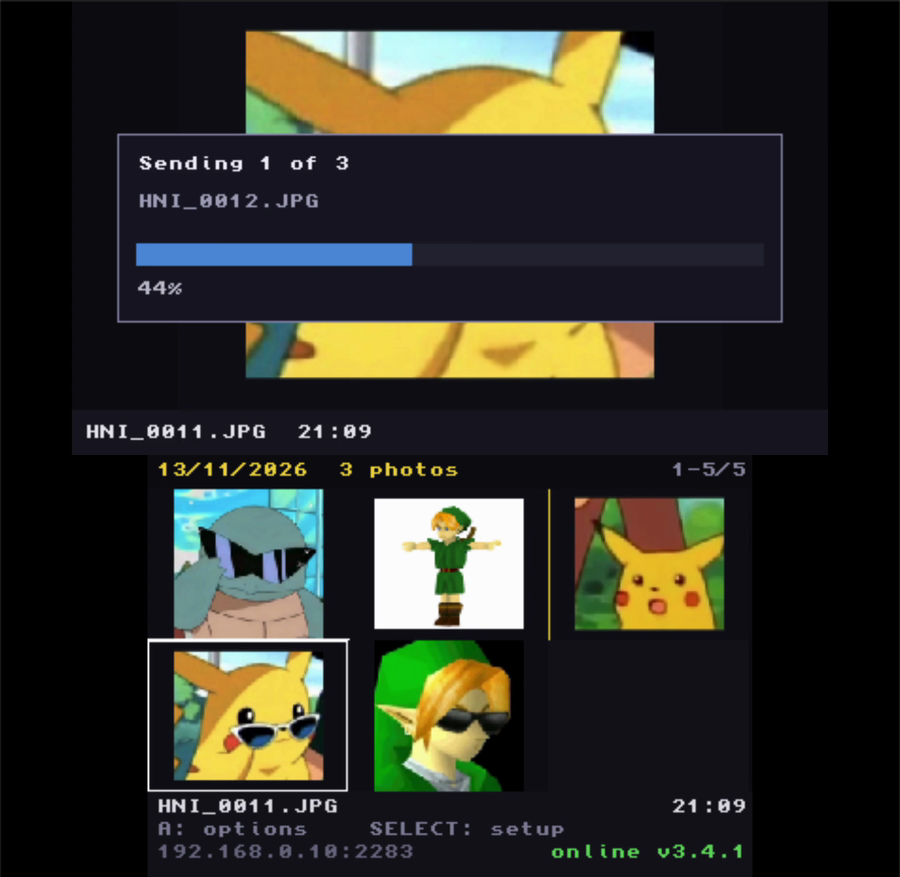
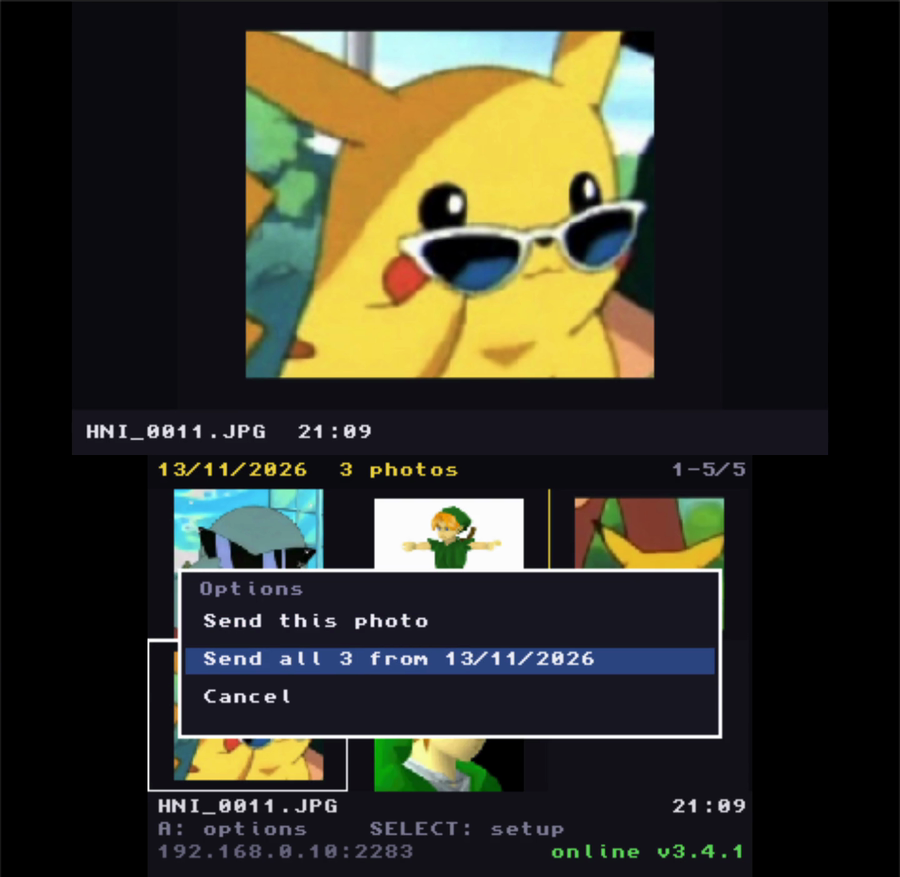
docs: README focado em quem so quer usar
- fora a secao 'why not airdrop': o projeto e' sobre Immich
- 'releasing', 'tests' e detalhes de build vao para CONTRIBUTING.md
- print do menu agora mostra o menu de acoes (antes pegava um envio)
- pagina de configuracao em ingles no README EN e em portugues no PT
- prints da galeria e do menu em PT para o README.pt-BR

Changed region(s): [[0.1244, 0.1539, 0.8711, 0.3694], [0.1867, 0.6465, 0.8089, 0.862]]

diff --git a/README.pt-BR.md b/README.pt-BR.md
@@ -19,18 +19,7 @@ Manda as fotos do seu Nintendo 3DS direto para o seu servidor [Immich](https://i
 
 | Galeria | Menu de ações |
 |---|---|
-| ![Galeria](docs/screenshot-gallery.png) | ![Menu](docs/screenshot-menu.png) |
-
-## Por que não AirDrop
-
-AirDrop não é possível no 3DS, e não é questão de criptografia: a descoberta roda sobre **AWDL**, um
-protocolo de rádio que exige monitor mode e injeção de frames — coisas que o firmware fechado do 3DS
-não expõe, e o menu do iPhone só lista quem fala AWDL. Reimplementações abertas como o
-[OpenDrop](https://github.com/seemoo-lab/opendrop) só funcionam em placas Wi-Fi com monitor mode
-ativo.
-
-O caminho que funciona é o Immich: o 3DS sobe as fotos e o iPhone as vê no app do Immich. O outro
-sentido vem de graça.
+| ![Galeria](docs/screenshot-gallery-pt.png) | ![Menu](docs/screenshot-menu-pt.png) |
 
 ## Requisitos
 
@@ -43,15 +32,13 @@ sentido vem de graça.
 Baixe `immich-3ds.cia` na página de [releases](../../releases), copie para o cartão SD
 (por exemplo `sdmc:/cias/`) e instale com o **FBI**. Ele aparece no menu inicial.
 
-Alternativamente, compile e use o `.3dsx` pelo Homebrew Launcher.
-
 ## Configurar
 
 ### Primeira vez: pelo celular ou PC
 
 Sem configuração, o app sobe um pequeno servidor web e mostra o endereço na tela de cima:
 
-![Página de configuração](docs/screenshot-web.png)
+![Página de configuração](docs/screenshot-web-pt.png)
 
 Abra esse endereço, preencha servidor, API key e fuso, e toque em **Enviar pro 3DS**. O app salva em
 `sdmc:/immich-3ds/.env`, testa a conexão e volta para a galeria.
@@ -97,61 +84,19 @@ configuração).
 - TLS 1.2 é o teto do mbedTLS embarcado — servidor que só aceita TLS 1.3 não conecta
 - A API key fica em texto plano no cartão. Use uma key dedicada, para revogar só ela
 
-## Compilar
-
-```sh
-./build.sh          # gera .3dsx e .cia via Docker (não precisa de devkitPro)
-```
-
-Com devkitPro instalado nativamente, `make` usa `$DEVKITARM`; a etapa do `.cia` precisa do
-[makerom](https://github.com/3DSGuy/Project_CTR).
-
-Opcional: copie `.env.example` para `.env` para embutir servidor e key no binário em tempo de build
-(útil para distribuir uma build já configurada — mas aí o `.cia` carrega a sua key).
-
-## Regerar as imagens do README
-
-O GIF foi gravado com uma flag que percorre a interface sozinha e finge o envio (não precisa de
-servidor):
-
-```sh
-make CFLAGS_EXTRA=-DDEMO
-```
-
-## Publicar uma release
-
-Empurre uma tag e o CI faz o resto: roda os testes, compila dentro do container do devkitPro, empacota
-o `.cia` e publica os dois binários numa release do GitHub.
-
-```sh
-git tag v1.0.0 && git push --tags
-```
-
-Todo push e pull request também gera os artefatos (sem publicar), então build quebrada aparece como
-check vermelho.
-
-## Testes
-
-```sh
-./tests/run.sh
-```
-
-Cobre o leitor de data EXIF e o parser urlencoded da página de configuração. Os dois compilam no host,
-sem emulador.
-
 ## Créditos e notas legais
 
 - Feito com [devkitPro](https://devkitpro.org) / libctru, [curl](https://curl.se) +
-  [mbedTLS](https://www.trustedfirmware.org/projects/mbed-tls/), [libjpeg-turbo](https://libjpeg-turbo.org)
-  e [makerom](https://github.com/3DSGuy/Project_CTR).
+  [mbedTLS](https://www.trustedfirmware.org/projects/mbed-tls/) e
+  [libjpeg-turbo](https://libjpeg-turbo.org).
 - O nome e a logo da Immich pertencem ao projeto [Immich](https://immich.app). Este app **não é
   oficial** nem afiliado; a logo está aqui só para identificar o serviço que você conecta.
 - As imagens de exemplo em `docs/` são memes de fã usados **apenas como dado de teste**. Personagens e
   artes são marcas da **Nintendo**; este projeto não é afiliado, endossado ou patrocinado pela Nintendo.
   Se você fizer um fork, troque essas imagens por algo seu.
 
-## Licença
+## Licença e contribuição
 
-MIT — veja [LICENSE](LICENSE).
+MIT — veja [LICENSE](LICENSE). Compilar do código, testes e processo de release: [CONTRIBUTING.md](CONTRIBUTING.md).
 
 Por [arthuregood](https://github.com/arthuregood).

diff --git a/README.md b/README.md
@@ -21,17 +21,6 @@ Send the photos from your Nintendo 3DS straight to your [Immich](https://immich.
 |---|---|
 | ![Gallery](docs/screenshot-gallery.png) | ![Menu](docs/screenshot-menu.png) |
 
-## Why not AirDrop
-
-AirDrop is not possible on a 3DS, and it is not about encryption: discovery runs over **AWDL**, a
-radio protocol that needs monitor mode and raw frame injection — things the 3DS closed firmware
-does not expose, and the iPhone's share sheet only lists peers that speak AWDL. Open
-reimplementations like [OpenDrop](https://github.com/seemoo-lab/opendrop) only work on Wi-Fi cards
-with active monitor mode.
-
-Immich is the path that does work: the 3DS uploads, and the iPhone sees it in the Immich app. The
-other direction comes for free.
-
 ## Requirements
 
 - 3DS/2DS with [Luma3DS](https://github.com/LumaTeam/Luma3DS) and FBI
@@ -42,8 +31,6 @@ other direction comes for free.
 
 Grab `immich-3ds.cia` from the [releases](../../releases) page, copy it to your SD card
 (for example `sdmc:/cias/`) and install it with **FBI**. It shows up in the Home Menu.
-
-Alternatively, build from source and use the `.3dsx` through the Homebrew Launcher.
 
 ## Setup
 
@@ -97,61 +84,19 @@ saving the settings).
 - TLS 1.2 is the ceiling of the bundled mbedTLS — a server that only accepts TLS 1.3 will not connect
 - The API key sits in plain text on the SD card. Use a dedicated key so you can revoke it alone
 
-## Building
-
-```sh
-./build.sh          # builds .3dsx and .cia with Docker (no devkitPro needed)
-```
-
-With devkitPro installed natively, `make` uses `$DEVKITARM`; the `.cia` step needs
-[makerom](https://github.com/3DSGuy/Project_CTR).
-
-Optional: copy `.env.example` to `.env` to bake the server and key into the binary at build time
-(handy for distributing a pre-configured build — but then the `.cia` contains your key).
-
-## Regenerating the demo assets
-
-The GIF in this README was recorded with a build flag that drives the UI by itself and fakes the
-upload (no server needed):
-
-```sh
-make CFLAGS_EXTRA=-DDEMO
-```
-
-## Releasing
-
-Push a tag and CI does the rest: it runs the tests, compiles inside the devkitPro container,
-packages the `.cia` and publishes both binaries in a GitHub release.
-
-```sh
-git tag v1.0.0 && git push --tags
-```
-
-Every push and pull request also builds the artifacts (without publishing), so a broken build shows
-up as a red check.
-
-## Tests
-
-```sh
-./tests/run.sh
-```
-
-Covers the EXIF date parser and the urlencoded parser used by the setup page. Both are compiled for
-the host, no emulator needed.
-
 ## Credits and legal notes
 
 - Built with [devkitPro](https://devkitpro.org) / libctru, [curl](https://curl.se) +
-  [mbedTLS](https://www.trustedfirmware.org/projects/mbed-tls/), [libjpeg-turbo](https://libjpeg-turbo.org),
-  and [makerom](https://github.com/3DSGuy/Project_CTR).
+  [mbedTLS](https://www.trustedfirmware.org/projects/mbed-tls/) and
+  [libjpeg-turbo](https://libjpeg-turbo.org).
 - The Immich name and logo belong to the [Immich](https://immich.app) project. This app is **not
   official** nor affiliated with it; the logo is here only to identify the service you connect to.
 - The sample images in `docs/` are fan memes used as **test data only**. Characters and artwork are
   trademarks of **Nintendo**; this project is not affiliated with, endorsed or sponsored by Nintendo.
   If you fork this, swap those images for something you own.
 
-## License
+## License and contributing
 
-MIT — see [LICENSE](LICENSE).
+MIT — see [LICENSE](LICENSE). Building from source, tests and release process: [CONTRIBUTING.md](CONTRIBUTING.md).
 
 By [arthuregood](https://github.com/arthuregood).

diff --git a/CONTRIBUTING.md b/CONTRIBUTING.md
@@ -1,0 +1,54 @@
+# Contributing
+
+This is a small homebrew project. Issues and pull requests are welcome; keep in mind that **releases
+are published only by the maintainer** — please do not tag or publish.
+
+## Building
+
+Quickest path, no toolchain installed (needs Docker):
+
+```sh
+./build.sh          # produces immich-3ds.3dsx and immich-3ds.cia
+```
+
+With devkitPro installed natively you can use `make` directly; the `.cia` step needs
+[makerom](https://github.com/3DSGuy/Project_CTR) (the Docker path in `build.sh` does both).
+
+Optional: copy `.env.example` to `.env` to bake the server and API key into the binary at build time.
+Handy for a pre-configured build; remember the resulting `.cia` then contains your key, so never share
+it.
+
+## Tests
+
+```sh
+./tests/run.sh
+```
+
+Runs on the host, no emulator needed. It covers the two pieces of logic that are worth testing in
+isolation: the EXIF date parser (`source/exif.c`) and the urlencoded parser behind the setup page
+(`source/form.c`). The same script also regenerates the setup page as HTML in `/tmp`, which is how the
+screenshot in the README is made.
+
+## Regenerating the demo assets
+
+The GIFs and screenshots in `docs/` come from a build flag that drives the UI by itself and fakes the
+upload (no server needed):
+
+```sh
+make CFLAGS_EXTRA=-DDEMO
+```
+
+Run it in an emulator, record the window, and crop. The demo walks through: moving the cursor, opening
+the menu, sending the three photos of a day, and showing the result.
+
+## Releasing (maintainer only)
+
+Push a tag; CI runs the tests, compiles inside the devkitPro container, packages the `.cia` and
+publishes both binaries in a GitHub release.
+
+```sh
+git tag v1.0.1 && git push --tags
+```
+
+Every push and pull request also builds the artifacts without publishing, so a broken build shows up as
+a red check. The workflow also fails if any `.env`-style file is committed.
